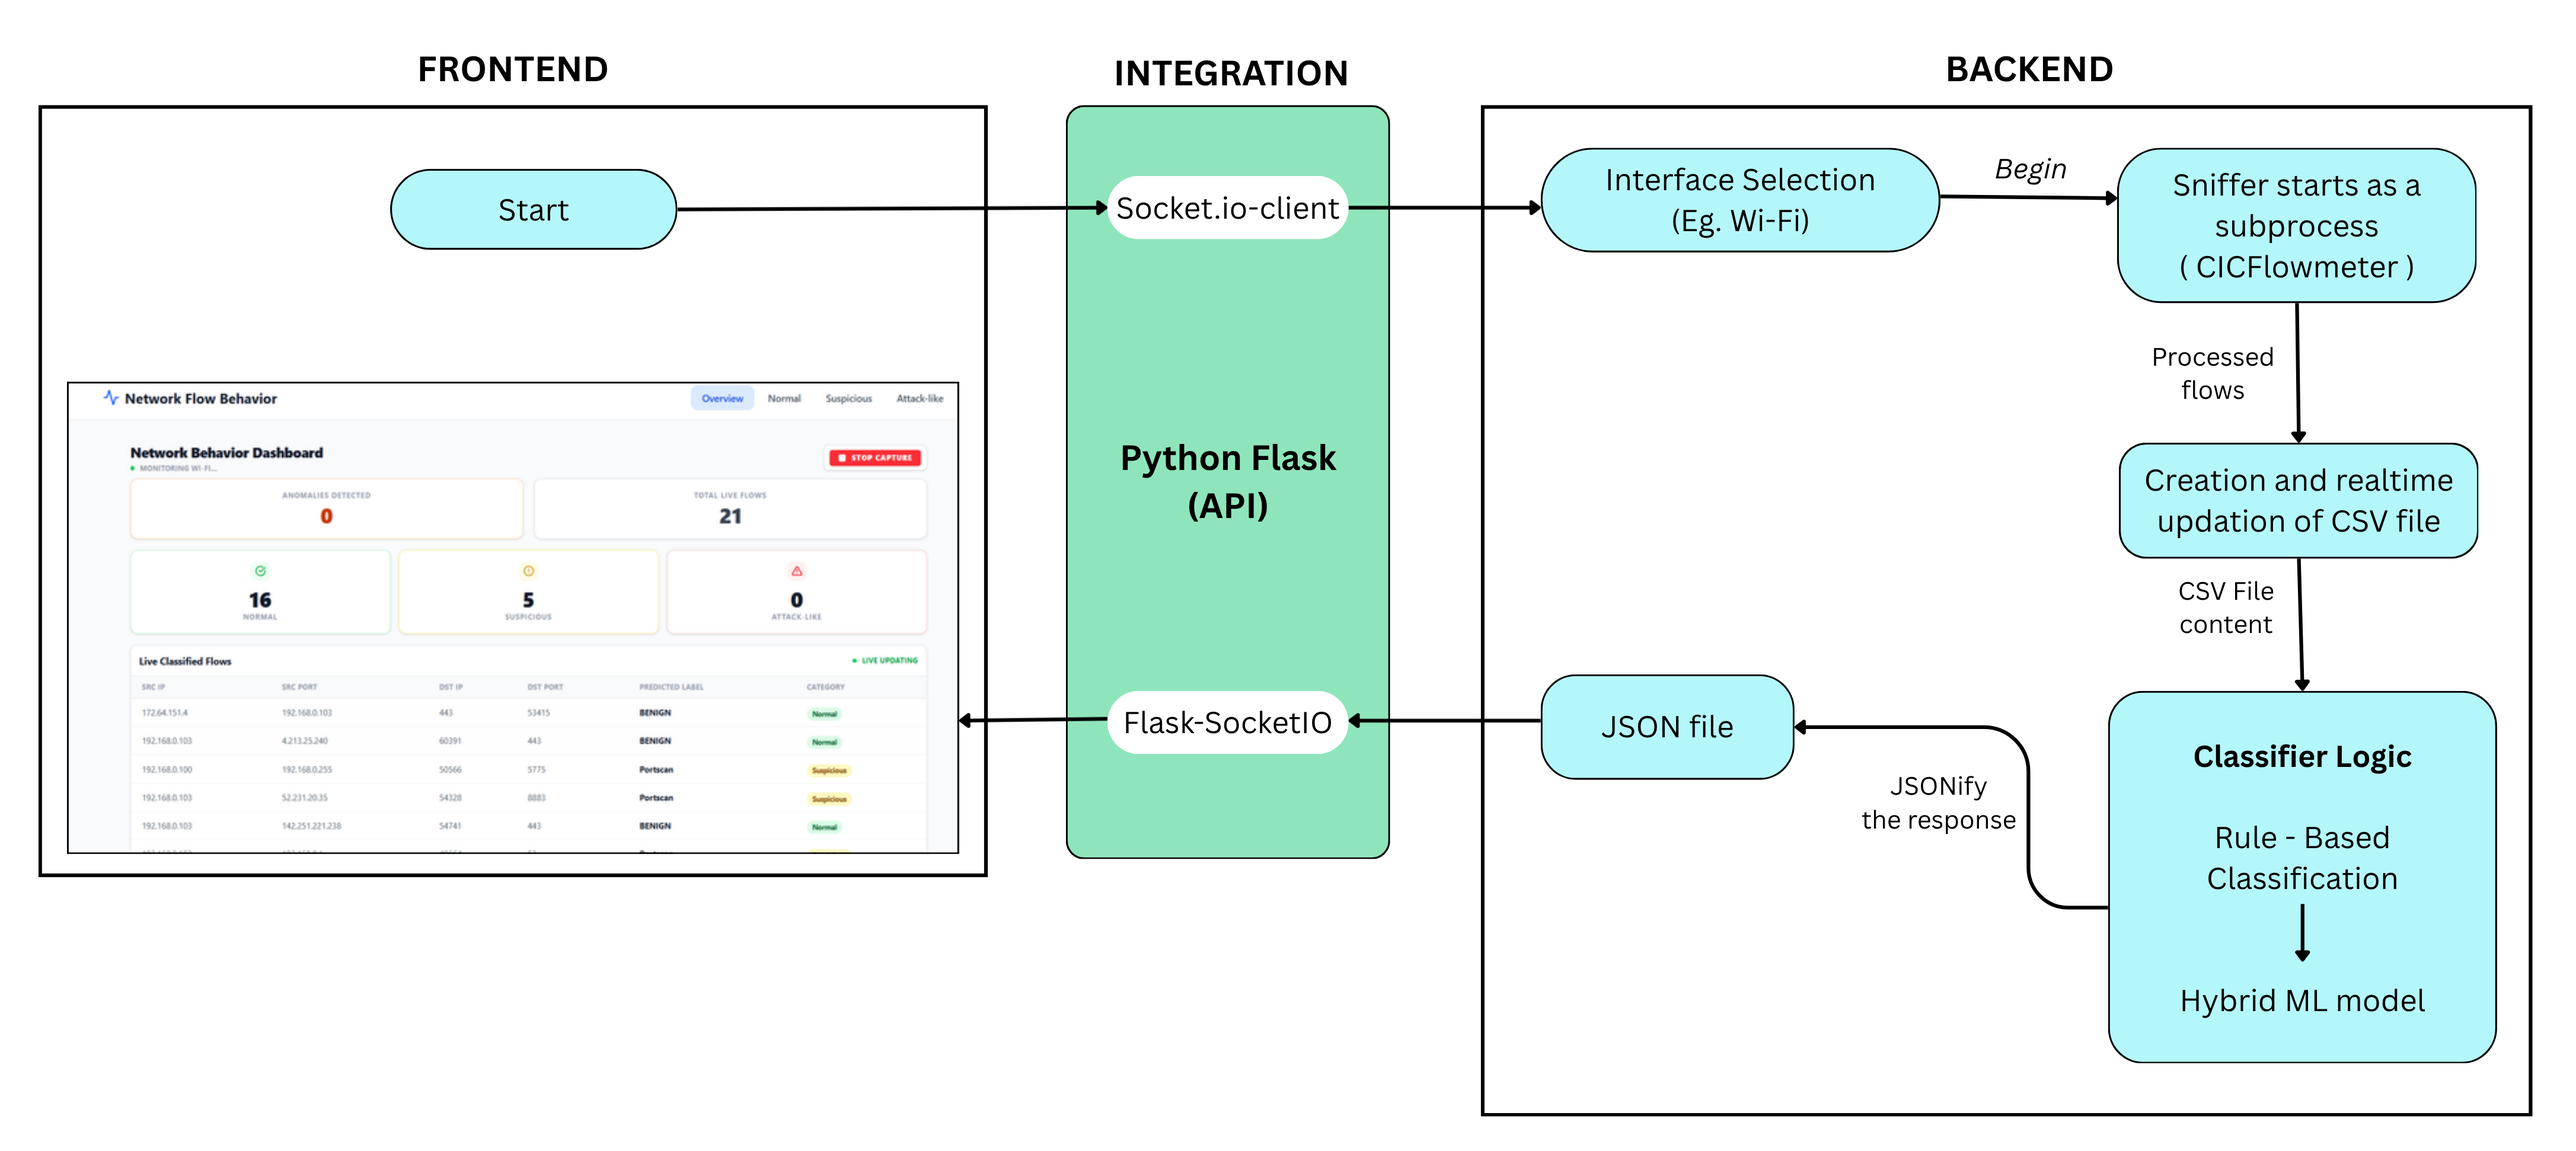
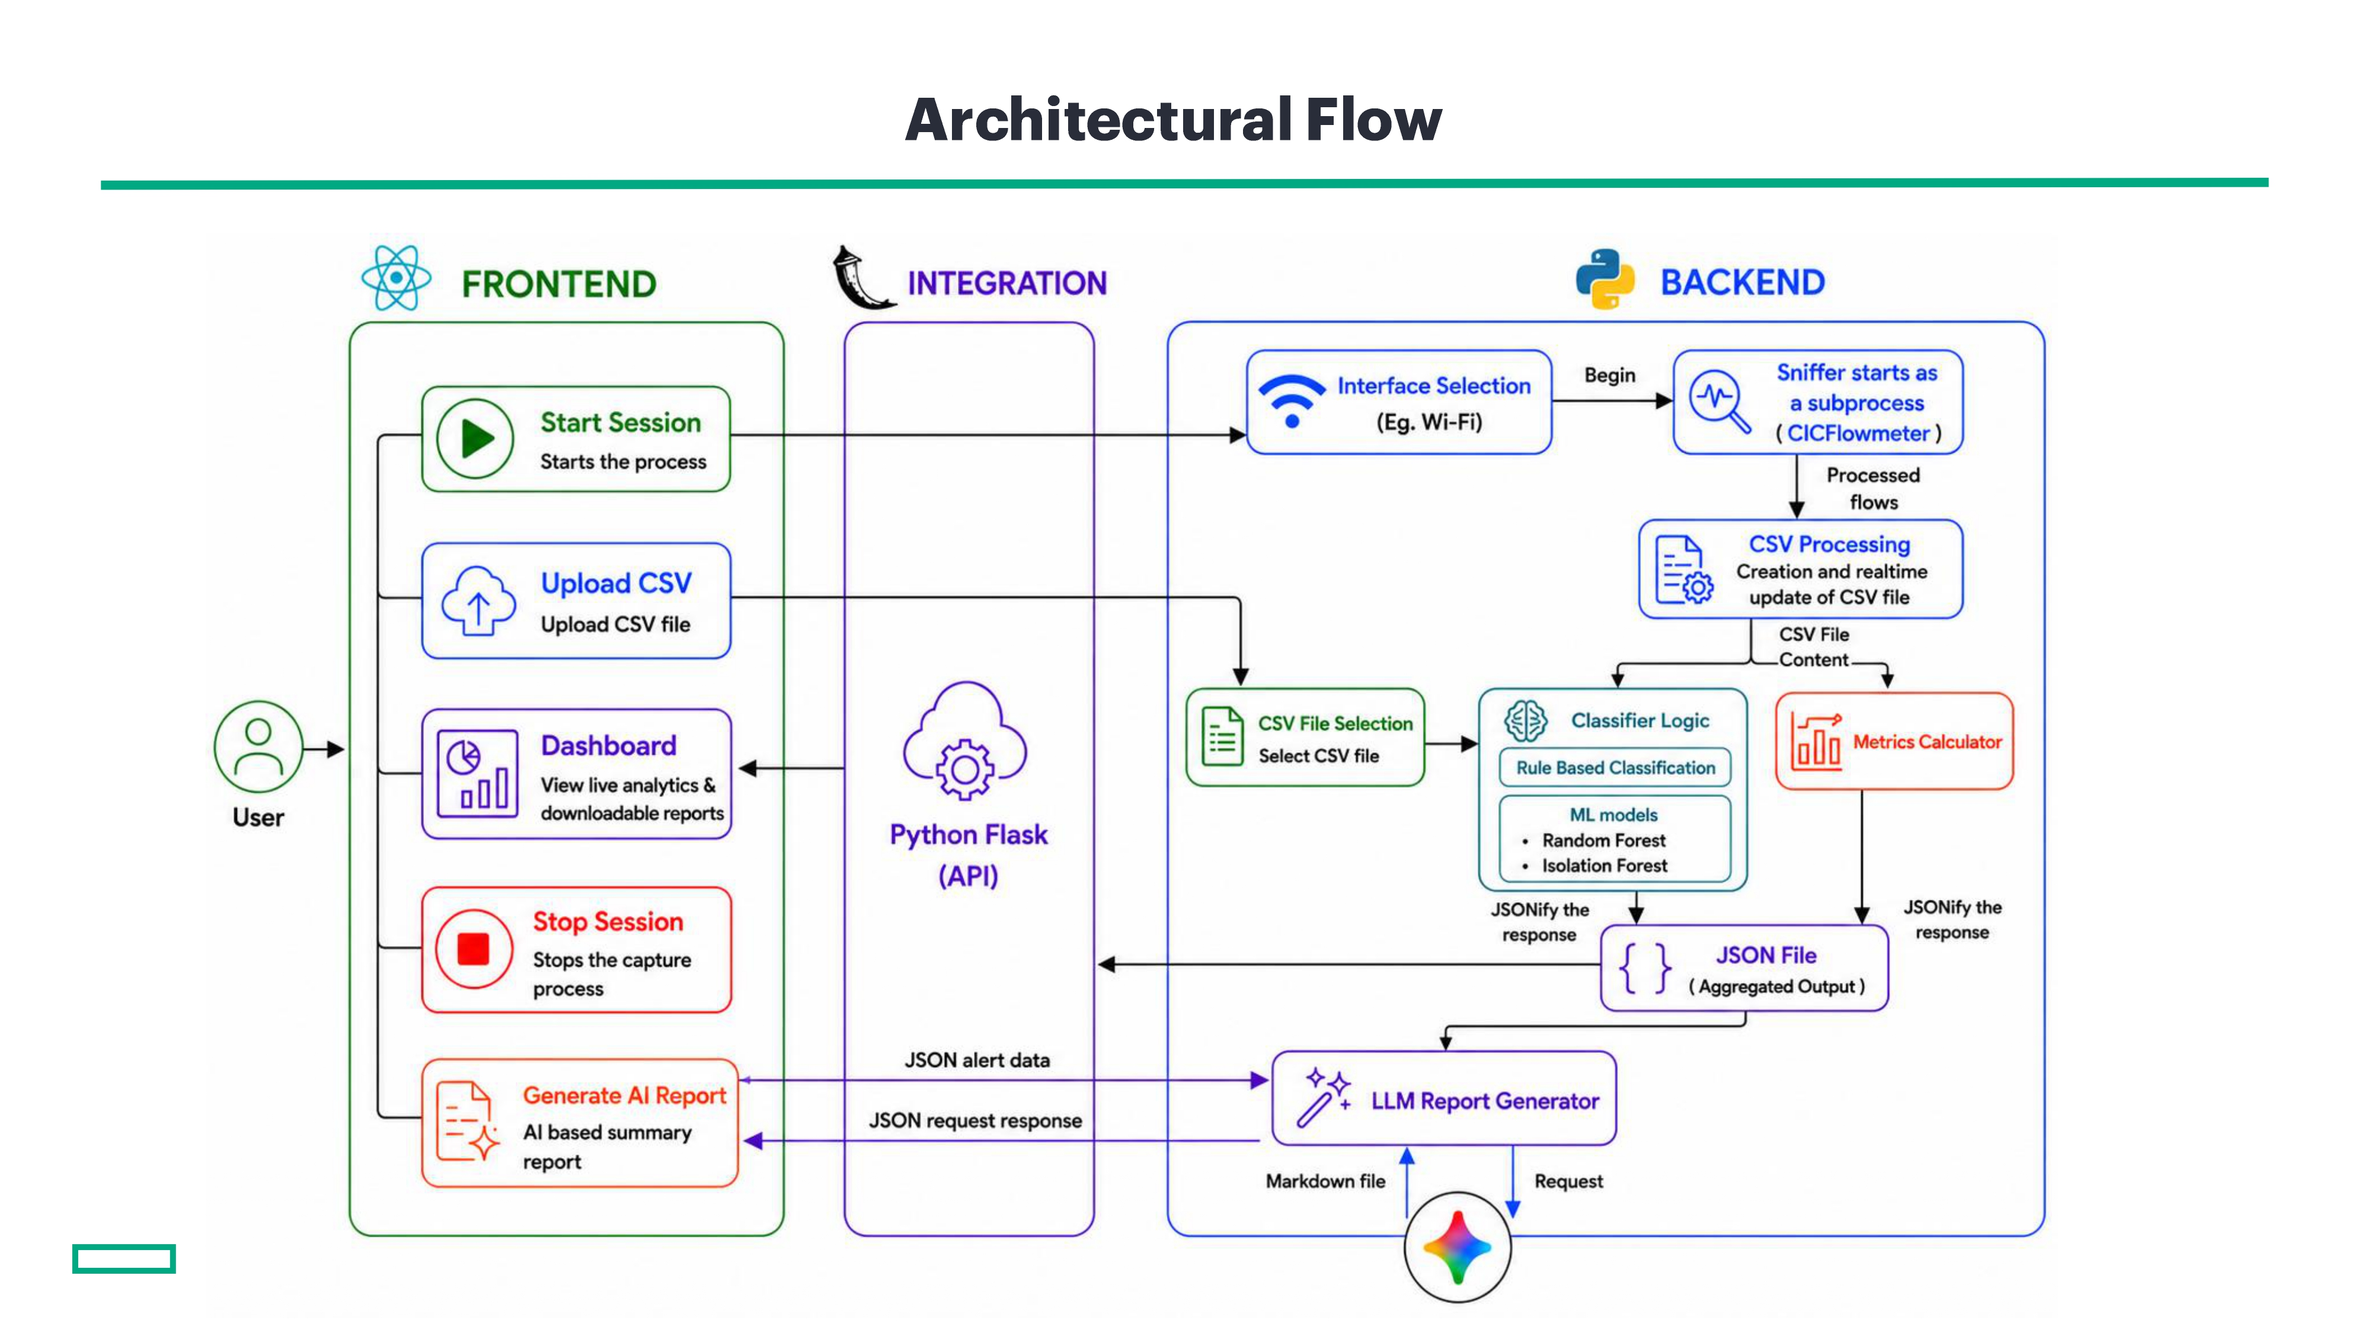
Added Diagrams and csv_upload file

diff --git a/backend/csv_upload.py b/backend/csv_upload.py
@@ -1,0 +1,197 @@
+from flask import request, jsonify
+import threading
+import csv
+import io
+from client_insights import ClientInsights
+
+from classifier import RealTimeClassifier
+def register_csv_routes(app, socketio): 
+    
+    engine = RealTimeClassifier()
+    engine.load_bundle()
+    client_insights = ClientInsights()
+
+    app.csv_results = []
+    app.csv_summary = None
+
+    def safe_float(d, *keys):
+        for k in keys:
+            v = d.get(k)
+            if v is not None:
+                try: return float(v)
+                except: pass
+        return 0.0
+
+    def heuristic(row):
+        dest_port    = int(safe_float(row, 'Dst Port', 'Destination Port'))
+        avg_pkt      = safe_float(row, 'Average Packet Size', 'avg_packet_size', 'pkt_size_avg')
+        max_idle     = safe_float(row, 'Flow IAT Max', 'flow_iat_max')
+        pkt_var      = safe_float(row, 'Bwd Packet Length Std', 'bwd_pkt_len_std')
+        fwd_rate     = safe_float(row, 'Fwd Packets/s', 'fwd_pkts_s')
+        syn          = safe_float(row, 'SYN Flag Count', 'syn_flag_count')
+        ack          = safe_float(row, 'ACK Flag Count', 'ack_flag_count')
+        rst          = safe_float(row, 'RST Flag Count', 'rst_flag_count')
+
+        if ack > 4000 and avg_pkt > 1500 and pkt_var > 2000:
+            return 'Heartbleed'
+        if dest_port == 21:
+            return 'FTP-Patator - Attempted' if avg_pkt <= 5 else 'FTP-Patator'
+        if dest_port == 22:
+            return 'SSH-Patator - Attempted' if avg_pkt <= 5 else 'SSH-Patator'
+        if dest_port == 8080:
+            return 'Botnet - Attempted' if avg_pkt <= 5 else 'Botnet'
+        if avg_pkt <= 5:
+            if fwd_rate > 10000:
+                return 'Infiltration - Portscan' if syn == 2 else 'Portscan'
+            if fwd_rate > 200:
+                return 'Infiltration - Attempted' if rst >= 1 else 'DoS GoldenEye - Attempted'
+            if syn >= 7: return 'DoS Slowhttptest - Attempted'
+            if syn == 3:
+                if ack == 0: return 'DoS Slowloris - Attempted'
+                if ack == 2 and max_idle > 30000000: return 'DoS Hulk - Attempted'
+            if syn == 2:
+                if max_idle > 5300000: return 'Web Attack - Brute Force - Attempted'
+                if max_idle > 5000000: return 'Web Attack - XSS - Attempted'
+                return 'Web Attack - SQL Injection - Attempted'
+            return 'BENIGN'
+        if pkt_var == 0 and avg_pkt > 5:
+            if max_idle > 80000000: return 'DoS Slowhttptest'
+            if max_idle > 40000000: return 'DoS Slowloris'
+            if max_idle > 30000000 and 150 < avg_pkt < 190 and 50 < ack < 80:
+                return 'Infiltration'
+        if dest_port in [80, 443]:
+            if ack > 150:
+                if 700 < avg_pkt < 800 and 300 < pkt_var < 400: return 'Web Attack - XSS'
+                if 300 < avg_pkt < 450 and 300 < pkt_var < 450: return 'Web Attack - Brute Force'
+            if 200 < avg_pkt < 300 and 800 < pkt_var < 1000:
+                return 'Web Attack - SQL Injection - Attempted' if ack >= 10 else 'Web Attack - SQL Injection'
+        if avg_pkt > 600 and pkt_var > 1500:
+            if max_idle < 500000: return 'DoS Hulk'
+            return 'DDoS' if pkt_var > 3000 else 'DoS GoldenEye'
+        return 'BENIGN'
+
+    def threat_category(label):
+        if label == 'BENIGN': return 'Normal'
+        if label == 'Anomaly': return 'Anomaly'
+        if label in ['Dead Service', 'TCP Handshake Anomaly', 'Keep Alive Timeout', 'Packet Size Anomaly']:
+            return 'Misconfigured'
+        if label in ['Portscan', 'Infiltration', 'Infiltration - Attempted', 'Infiltration - Portscan'] or 'Attempted' in label:
+            return 'Suspicious'
+        return 'Attack-like'
+
+    def process_in_background(rows):
+        results = []
+        summary = {'Normal': 0, 'Misconfigured': 0, 'Suspicious': 0, 'Attack-like': 0, 'Anomaly': 0, 'total': 0}
+        total = len(rows)
+        BATCH = 500
+
+        for i, row in enumerate(rows):
+            label, category = engine.predict_live(
+                row,
+                use_anomaly=False
+            )
+
+            normalized = {
+                'protocol': row.get('Protocol', 0),
+                'dst_port': row.get('Dst Port', 0),
+                'src_port': row.get('Src Port', 0),
+
+                'syn_flag_cnt': row.get('SYN Flag Count', 0),
+                'ack_flag_cnt': row.get('ACK Flag Count', 0),
+                'rst_flag_cnt': row.get('RST Flag Count', 0),
+                'fin_flag_cnt': row.get('FIN Flag Count', 0),
+
+                'down_up_ratio': row.get('Down/Up Ratio', 0),
+                'flow_iat_mean': row.get('Flow IAT Mean', 0),
+                'flow_iat_std': row.get('Flow IAT Std', 0),
+
+                'psh_flag_cnt': row.get('PSH Flag Count', 0)
+            }
+
+            insights = client_insights.compute(row, category) 
+            insights = client_insights.compute(normalized, category)
+            
+            orig     = row.get('Label', row.get('label', '')).strip()
+
+            summary[category] += 1
+            summary['total']  += 1
+            results.append({
+                'Src IP': row.get('Src IP', row.get('Source IP', 'N/A')),
+                'Src Port': row.get('Src Port', row.get('Source Port', 'N/A')),
+                'Dst IP': row.get('Dst IP', row.get('Destination IP', 'N/A')),
+                'Dst Port': row.get('Dst Port', row.get('Destination Port', 'N/A')),
+                'Protocol': row.get('Protocol', 'N/A'),
+
+                'Predicted Label': label,
+                'Predicted Category': category,
+
+                'Original Label': orig,
+                'Client Insights': insights
+            })
+
+            if len(results) > 1000:
+                results = results[-5000:]
+
+            if (i + 1) % BATCH == 0 or (i + 1) == total:
+                progress = round(((i + 1) / total) * 100)
+
+                socketio.emit(
+                    'csv_progress',
+                    {
+                        'progress': progress,
+                        'processed': i + 1,
+                        'total': total
+                    }
+                )
+
+        app.csv_results = results
+        app.csv_summary = summary
+
+        socketio.emit(
+            'csv_done',
+            {
+                'summary': summary,
+                'total': len(results)
+            }
+        )
+
+    @app.route('/upload_csv', methods=['POST'])
+    def upload_csv():
+        file = request.files.get('file')
+
+        if not file:
+            return jsonify({'error': 'No file provided'}), 400
+
+        try:
+            content = file.read().decode('utf-8', errors='ignore')
+            rows = list(csv.DictReader(io.StringIO(content))) [:10000]
+            total_rows = len(rows)
+        except Exception as e:
+            return jsonify({'error': str(e)}), 400
+
+        threading.Thread(
+            target=process_in_background,
+            args=(rows,),
+            daemon=True
+        ).start()
+
+        return jsonify({
+            'status': 'processing',
+            'total': len(rows),
+            'limit': 50000
+        })
+
+    @app.route('/csv_rows')
+    def csv_rows():
+        page = int(request.args.get('page', 0))
+
+        PAGE_SIZE = 1000
+
+        start = page * PAGE_SIZE
+        end = start + PAGE_SIZE
+
+        return jsonify({
+            'rows': app.csv_results[start:end]
+        })
+
+
